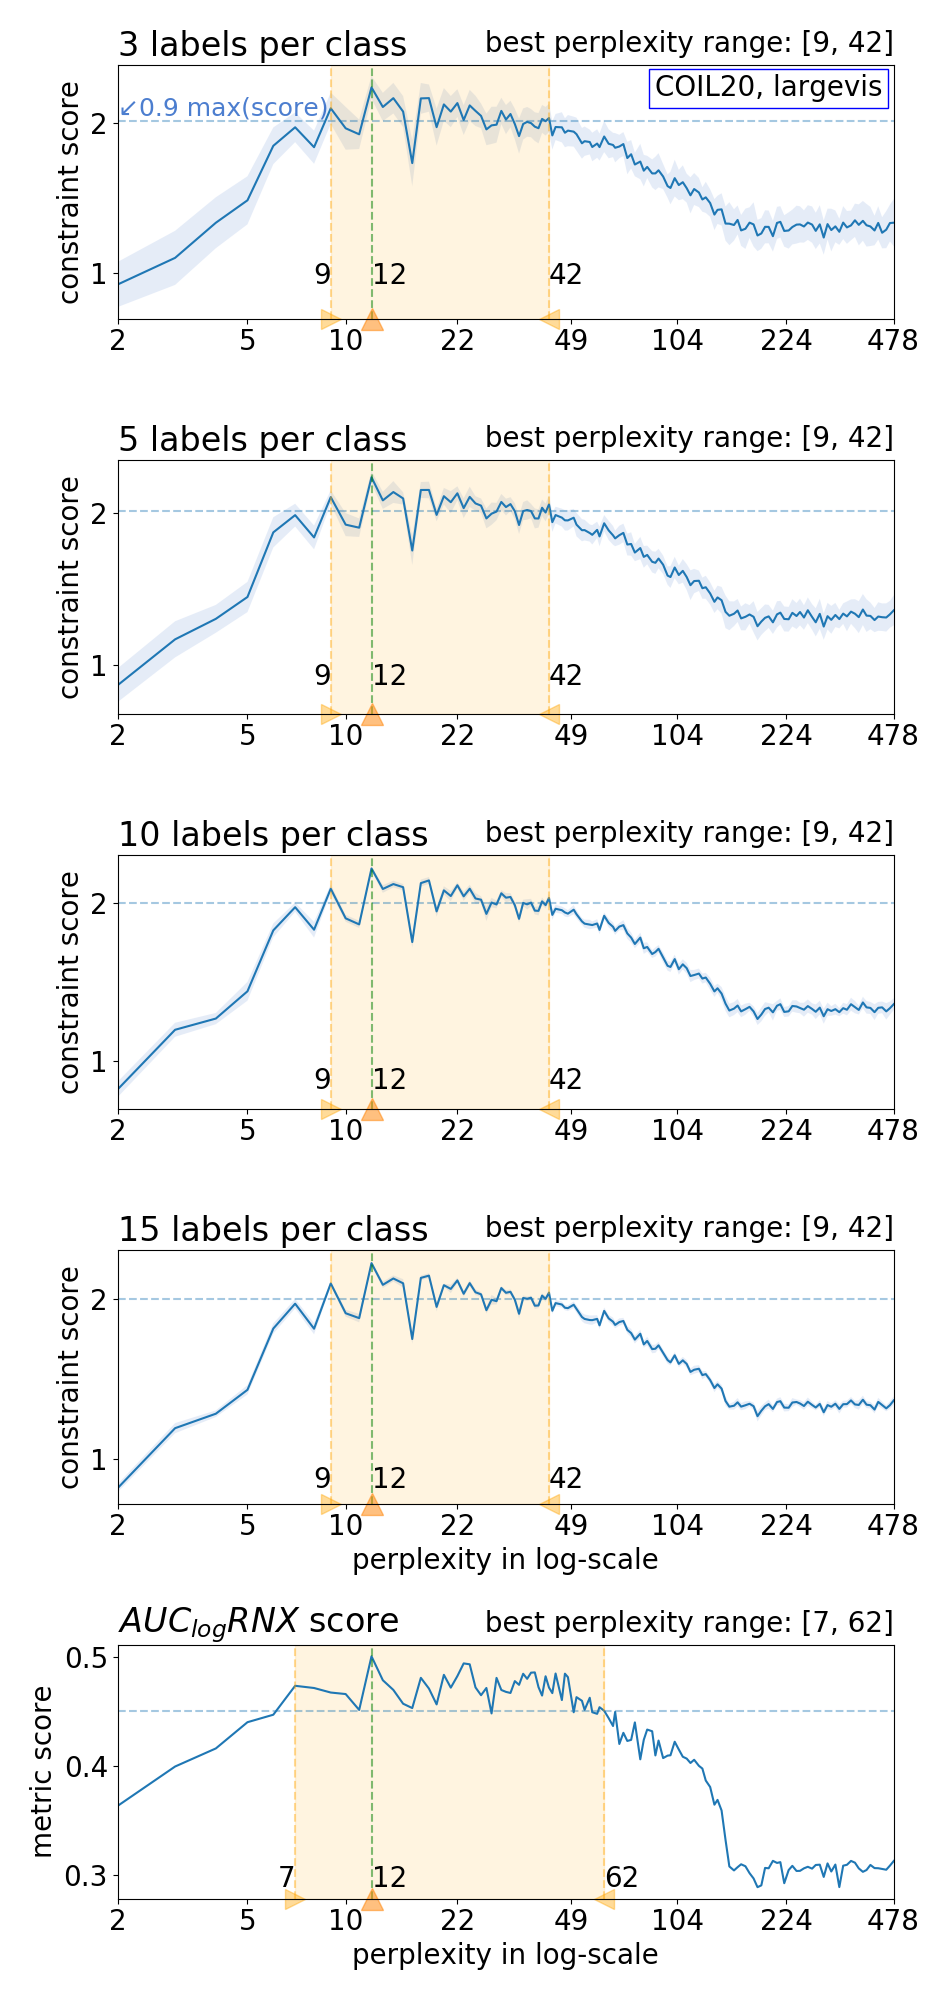
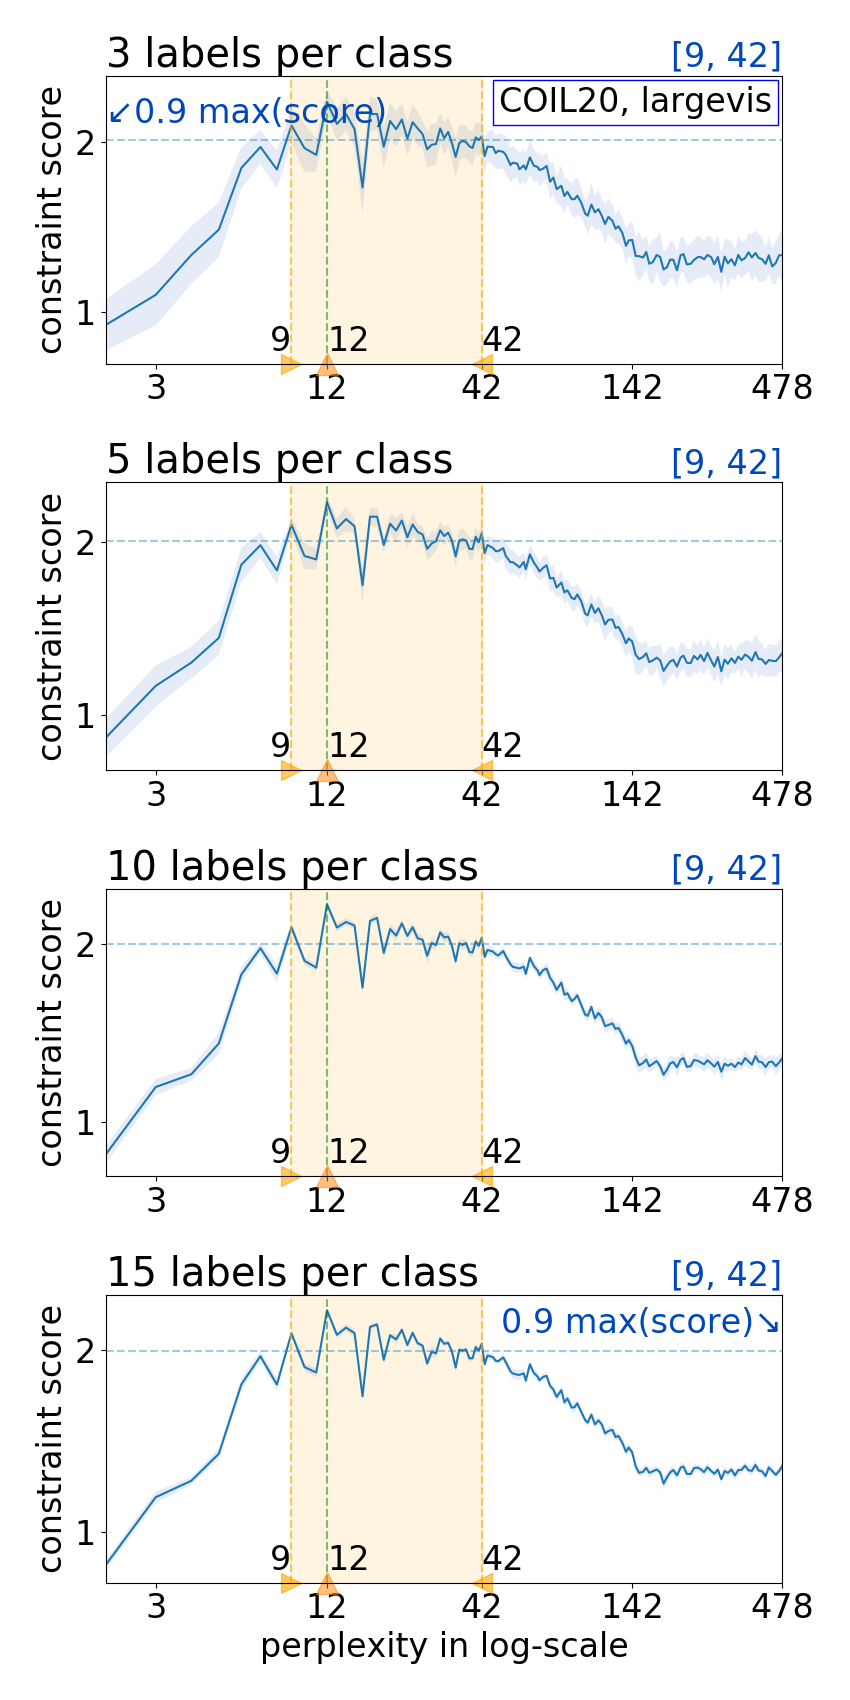
update plot size for constraint score stability

Changed region(s): [[0.0306, 0.0, 0.9788, 0.9976], [0.1835, 0.9353, 0.2141, 0.9665]]

diff --git a/code/plot_score.py b/code/plot_score.py
@@ -21,7 +21,7 @@ def _plot_line_with_variance(ax, list_params, score_mean, score_sigma=None):
 
     # force list params to show on axias
     list_params_to_show = utils.generate_value_range(
-        min_val=1.1, max_val=max(list_params), num=9, range_type="log", dtype=int)
+        min_val=1.1, max_val=max(list_params), num=6, range_type="log", dtype=int)
     ax.set_xticks(list_params_to_show)
     ax.xaxis.set_major_formatter(mpl.ticker.ScalarFormatter())
 
@@ -41,20 +41,20 @@ def _plot_best_range(ax, param_min, param_max, param_name="", text_y_pos=0.0):
     ax.axvspan(param_min, param_max, alpha=0.12, color="orange")
 
     # vertical line on the left
-    ax.axvline(param_min, color="orange", linestyle='--', alpha=0.4,
+    ax.axvline(param_min, color="orange", linestyle='--', alpha=0.6,
                marker=">", markersize=14, clip_on=False,
                markeredgecolor="orange", markerfacecolor="orange", markevery=100)
     ax.text(x=param_min, y=text_y_pos, s=str(param_min), ha="right")
 
     # vertical line on the right
-    ax.axvline(param_max, color="orange", linestyle='--', alpha=0.4,
+    ax.axvline(param_max, color="orange", linestyle='--', alpha=0.6,
                marker="<", markersize=14, clip_on=False,
                markeredgecolor="orange", markerfacecolor="orange", markevery=100)
     ax.text(x=param_max, y=text_y_pos, s=str(param_max), ha="left")
 
     # add text to show the best range
-    ax.text(x=1.0, y=1.025, transform=ax.transAxes, ha="right", va="bottom",
-            s=f" best {param_name} range: [{param_min}, {param_max}]")
+    ax.text(x=1.0, y=1.065, transform=ax.transAxes, ha="right", va="center",
+            s=f"[{param_min}, {param_max}]", color="#0047BB")
 
 
 def _plot_score_with_best_param_and_range(ax, param_name, list_params, pivot,
@@ -80,7 +80,7 @@ def _plot_score_with_best_param_and_range(ax, param_name, list_params, pivot,
 
 
 def plot_scores(dataset_name, method_name, score_name, list_n_labels_values,
-                param_name="", score_dir="", plot_dir="", compare_with_rnx=True):
+                param_name="", score_dir="", plot_dir="", compare_with_rnx=False):
     # prepare qij score data
     with open(f"{score_dir}/dof1.0_all.txt", "r") as in_file:
         qij_score_data = json.load(in_file)
@@ -95,28 +95,32 @@ def plot_scores(dataset_name, method_name, score_name, list_n_labels_values,
         rnx_score = metric_data["auc_rnx"]
 
     # prepare threshold value to filter the top highest scores
-    threshold = {'tsne': 0.96, 'umap': 0.96, 'largevis': 0.9}[method_name]
+    threshold = {'tsne': 0.95, 'umap': 0.95, 'largevis': 0.90}[method_name]
 
     # prepare subplots
     n_rows = len(list_n_labels_values) + (1 if compare_with_rnx else 0)
-    _, axes = plt.subplots(n_rows, 1, figsize=(9.5, 4*n_rows))
+    _, axes = plt.subplots(n_rows, 1, figsize=(8.5, 4.25*n_rows))
 
     for ax, n_labels_each_class in zip(np.array(axes).ravel(),
-                                       sorted(list_n_labels_values) + ["rnx"]):
-        if n_labels_each_class == "rnx":  # AUC_log_RNX score, not the qij score
-            first_plot, last_plot = False, True
+                                       sorted(list_n_labels_values) + [99]):
+        first_plot = n_labels_each_class == min(list_n_labels_values)
+        last_plot = n_labels_each_class == (99 if compare_with_rnx
+                                            else max(list_n_labels_values))
+        print(first_plot, last_plot, list_n_labels_values)
+        
+        if n_labels_each_class == 99:  # AUC_log_RNX score, not the qij score
             title, ylabel = "$AUC_{log}RNX$ score", "metric score"
             score_mean, score_sigma = np.array(rnx_score), None
+            text_y_pos = min(rnx_score)
         else:
-            first_plot = n_labels_each_class == min(list_n_labels_values)
-            last_plot = n_labels_each_class == max(list_n_labels_values)
             title, ylabel = f"{n_labels_each_class} labels per class", "constraint score"
             scores = all_scores[str(n_labels_each_class)]
             score_mean, score_sigma = np.mean(scores, axis=0), np.std(scores, axis=0)
+            text_y_pos = min(score_mean - score_sigma)
 
         ax.set_title(title, loc="left")
         ax.set_ylabel(ylabel)
-        text_y_pos = min(score_mean)  # y-position to show text, e.g., value of best param
+        # ax.set_ylim(top=1.15*max(score_mean), bottom=0.8*min(score_mean))
 
         # determine best param range and best param value
         pivot = threshold * max(score_mean)
@@ -129,19 +133,21 @@ def plot_scores(dataset_name, method_name, score_name, list_n_labels_values,
             ax, param_name, list_params, pivot, param_best, param_min, param_max,
             score_mean=score_mean, score_sigma=score_sigma, text_y_pos=text_y_pos)
 
-        # show label for params only for the last plot
-        if last_plot:
-            ax.set_xlabel(f"{param_name} in log-scale")
-
-        # additional annotation for first plot
+        # additional annotation for the first plot and the last plot
         if first_plot:
-            # hint text for the top hightest scores horizontal line
-            ax.text(x=min(list_params), y=pivot, ha="left", va="bottom", alpha=0.7,
-                    s=u"\u2199" + f"{threshold} max(score)", fontsize=18, color="#0047BB")
             # hint the dataset and method name
             ax.text(x=0.985, y=0.875, s=f"{dataset_name}, {method_name}",
                     transform=ax.transAxes, ha="right",
                     bbox=dict(edgecolor='b', facecolor='w'))
+            # hint text for the top hightest scores horizontal line
+            ax.text(x=min(list_params), y=pivot*1.03, ha="left", va="bottom",
+                    s=u"\u2199" + f"{threshold} max(score)", color="#0047BB")
+        if last_plot:
+            # hint xlabel param in log-scale
+            ax.set_xlabel(f"{param_name} in log-scale")
+            # hint text for the top hightest scores horizontal line
+            ax.text(x=max(list_params), y=pivot*1.03, ha="right", va="bottom",
+                    s=f"{threshold} max(score)" + u"\u2198", color="#0047BB")
 
     plt.tight_layout()
     plt.savefig(f"{plot_dir}/scores.png")

diff --git a/code/run_score.py b/code/run_score.py
@@ -173,12 +173,12 @@ if __name__ == "__main__":
 
     if args.plot:
         # note to make big font size for plots
-        plt.rcParams.update({'font.size': 20})
+        plt.rcParams.update({'font.size': 24})
 
         if score_name == "qij":
             plot_scores(dataset_name, method_name, score_name, list_n_labels_values,
                         param_name=default_param_name, score_dir=score_dir, plot_dir=plot_dir,
-                        compare_with_rnx=True)
+                        compare_with_rnx=False)
         elif score_name == "metrics":
             plot_quality_metrics(dataset_name, method_name, param_name=default_param_name,
                                  score_dir=score_dir, plot_dir=plot_dir)
